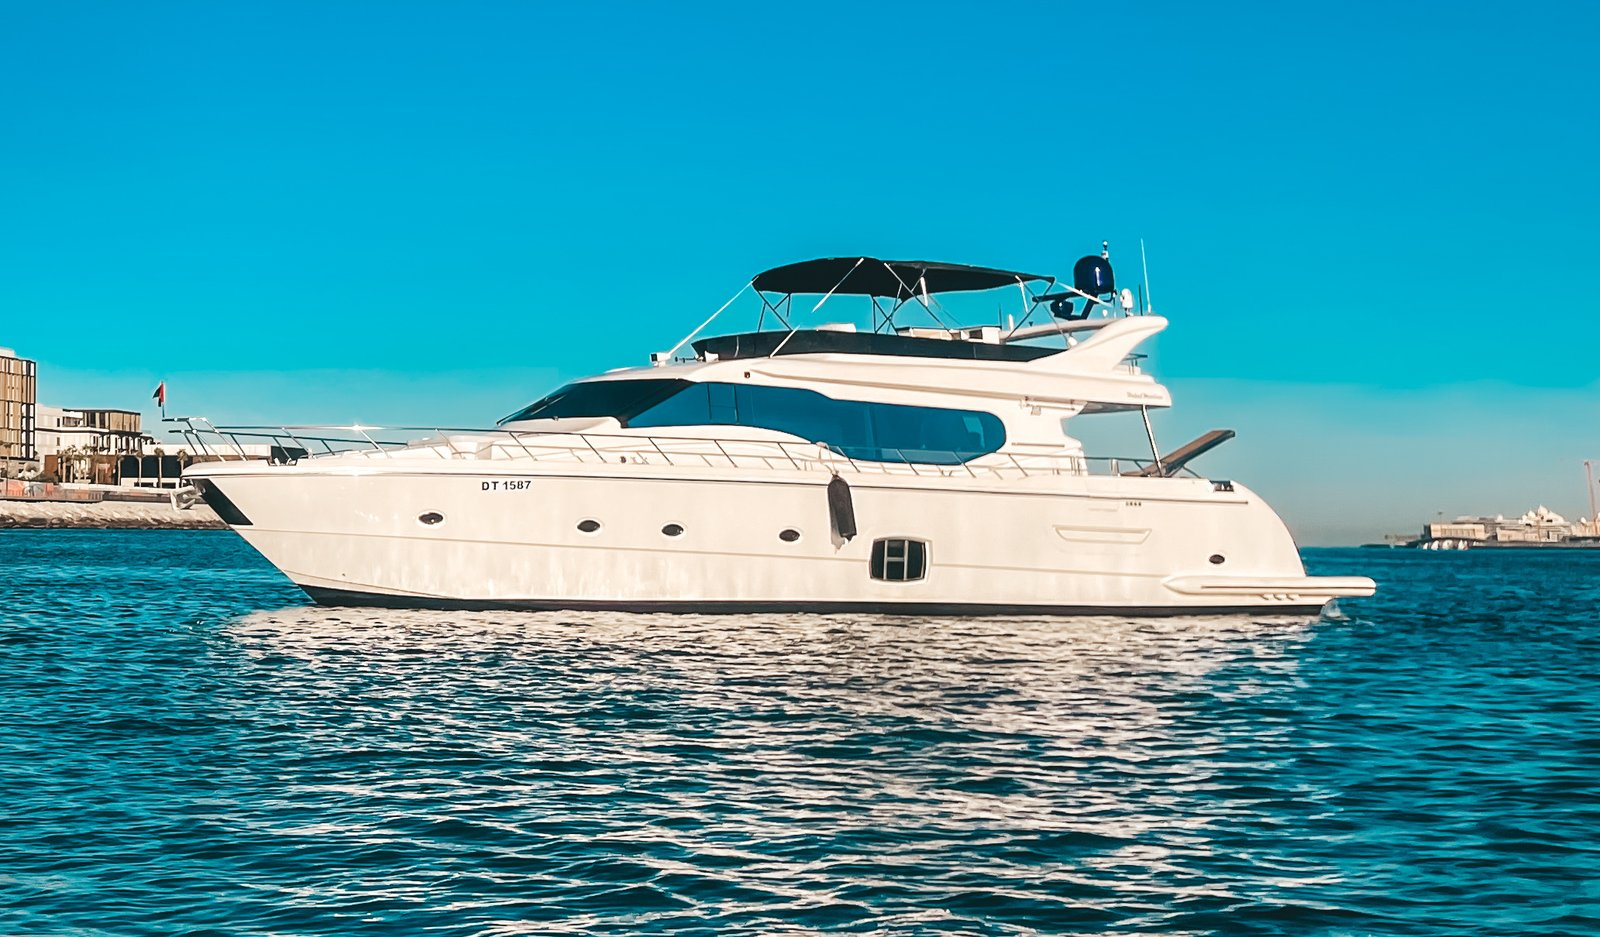
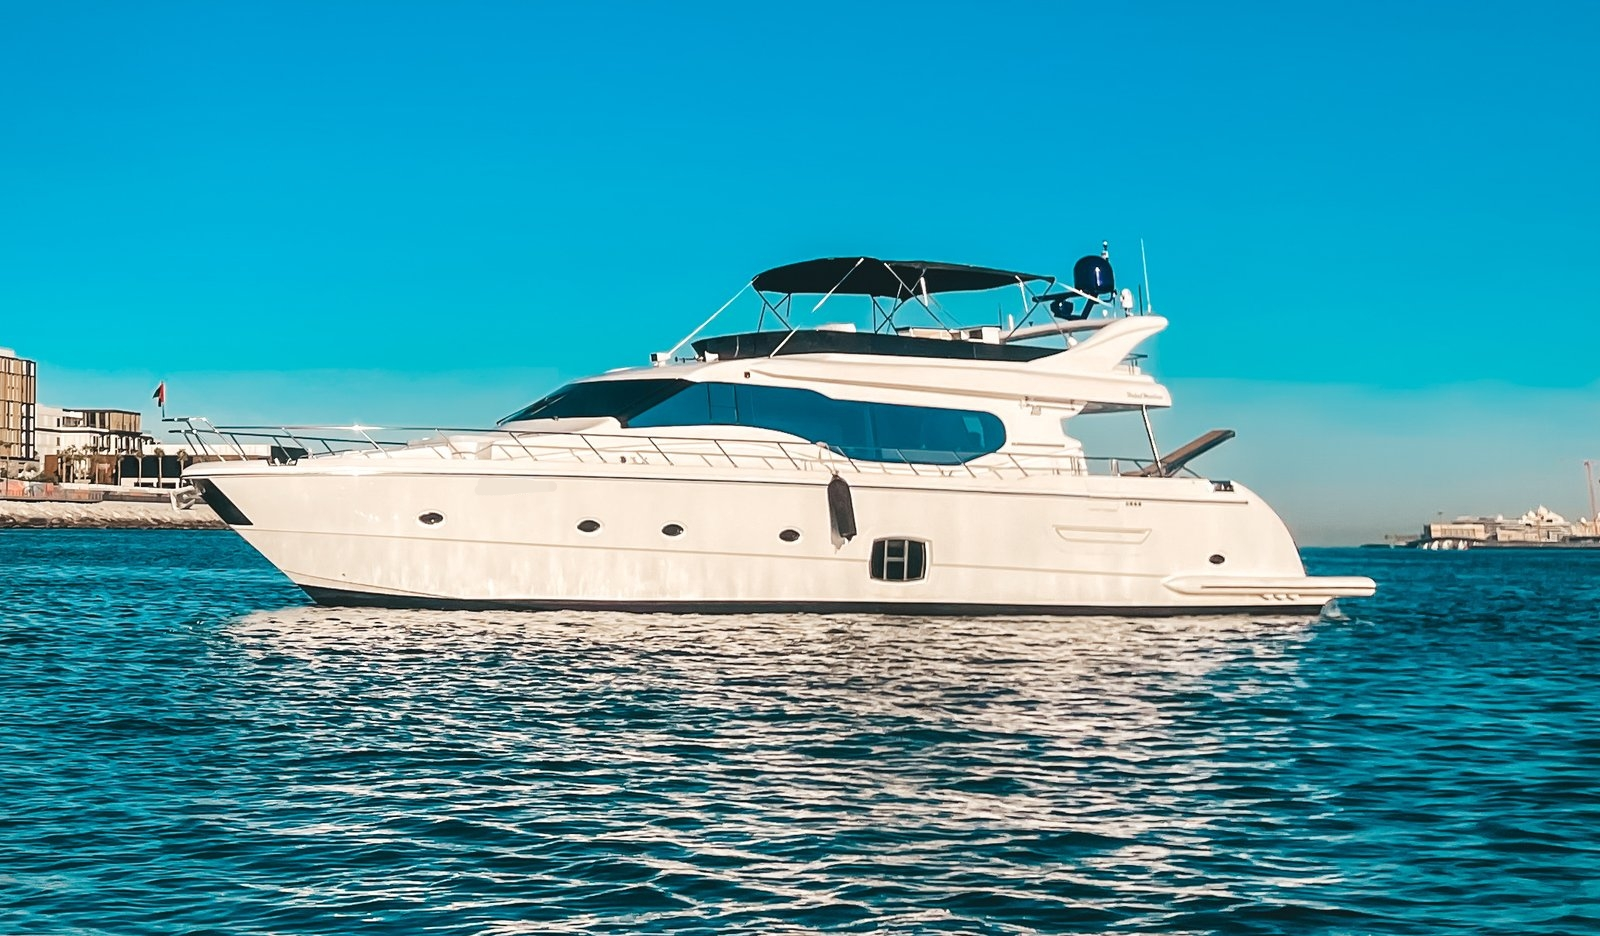
Update yacht photos from client's latest images batch
Merged the client's updated images/ upload into the repo rather than a
literal wholesale replace, since a straight swap would have silently
deleted three files still actively referenced by the site (Carmen's
gallery photo and two Mayyas gallery photos weren't present in the new
upload) and broken those pages.

- 15 existing photos replaced with updated versions (Carmen, Enterprise,
  Fynesse, Grand 82, Jasmine, Majesty 101, Majesty 59, Mayyas hero,
  Princess X95 x2, Schaefer 480 x2, Aarna 90, Big Daddy 90, marina
  gallery shot)
- Fixed two double-extension filenames from the upload (.jpg.jpg ->
  .jpg) for Aarna 90 and Big Daddy 90 so they still match what
  script.js references
- Added a new real photo of Mayyas (near Ain Dubai/JBR) that was
  uploaded as a generic camera filename — renamed to
  yacht-mayyas-75-exterior-2.jpg and wired into its gallery array
- Kept yacht-carmen-140-exterior-1.jpg, yacht-mayyas-75-exterior.jpg,
  and yacht-mayyas-75-interior.jpg untouched since the new upload
  didn't include them and removing them would have broken those
  yachts' galleries
- Verified: every image path referenced anywhere in the site resolves
  to a real file, and checked 12+ yacht detail pages plus the gallery
  page in a real browser with zero broken images

Claude-Session: https://claude.ai/code/session_013ujzLAUywbNUi7qUckeCpc

diff --git a/js/script.js b/js/script.js
@@ -229,7 +229,7 @@
       speedKnots: null,
       year: null,
       image: 'images/yacht-mayyas-75-hero.jpg',
-      gallery: ['images/yacht-mayyas-75-exterior.jpg', 'images/yacht-mayyas-75-interior.jpg'],
+      gallery: ['images/yacht-mayyas-75-exterior.jpg', 'images/yacht-mayyas-75-exterior-2.jpg', 'images/yacht-mayyas-75-interior.jpg'],
       description: 'Crafted with genuine skill, Mayyas is a 75-ft masterpiece gracing the waters of Dubai, delivering opulent sailing and providing an unforgettable luxury escapade at sea.',
       overview: 'Mayyas accommodates up to 30 guests for day charters and boasts an overnight capacity for 3, complete with extra quarters for a dedicated crew of 3. Luxurious cabins — Master and Twin — each come with an en-suite bathroom. A main salon with bar area and a spacious flybridge round out the experience, alongside jetski and a variety of water sports.',
       features: ['Master & Twin cabins, each en-suite', 'Main salon with bar area', 'Spacious flybridge', 'Jetski included', 'Water sports available'],
